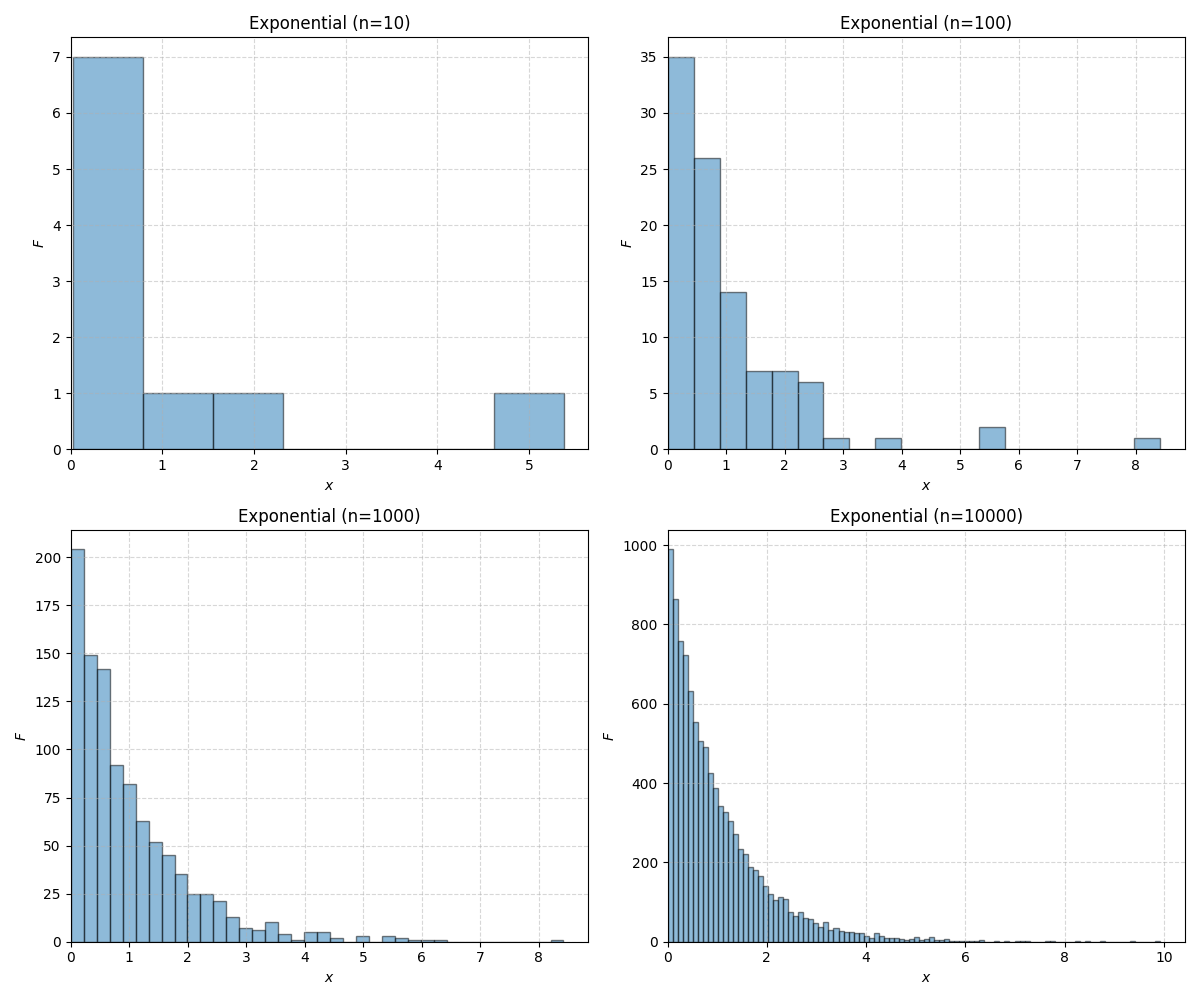
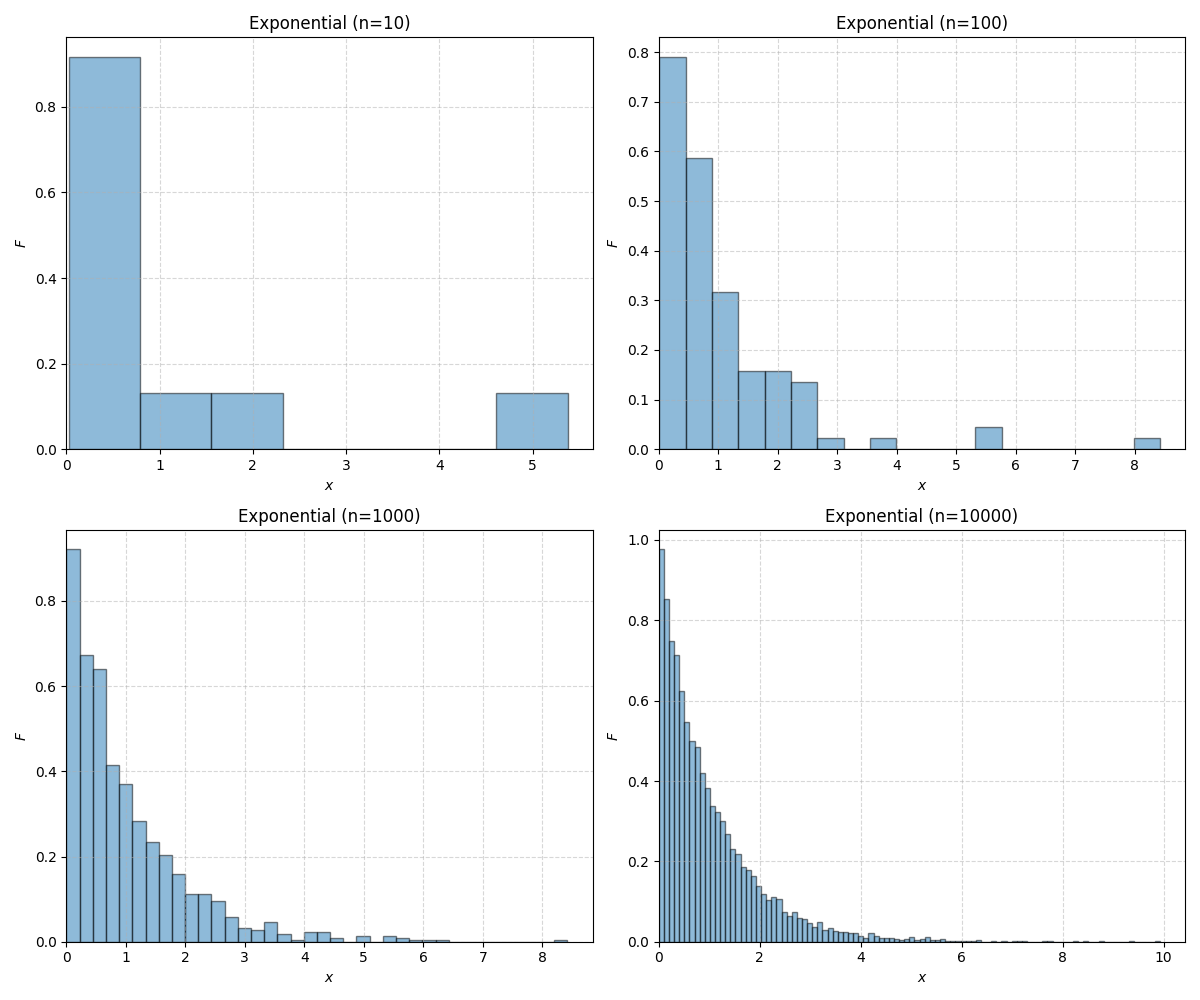
Add density=True for normal and exponential histogram normalization, update picture accordingly, add a print for some random number

diff --git a/TP01/tp_01.py b/TP01/tp_01.py
@@ -60,6 +60,7 @@ def uniform_discrete():
         theoretical = (MIN + MAX) / 2
         real = np.mean(x)
         error = real - theoretical
+        print(f"n: {n:6}, 5 premières valeurs: {x[:5]}") # Affichage des 5 premières valeurs
         print(f"n: {n:6}, Moyenne théorique: {theoretical:.4f}, Moyenne réelle: {real:.4f}, Erreur: {error:.4f}")
     plt.tight_layout()
     plt.savefig("uniform_discrete.png")
@@ -76,6 +77,7 @@ def uniform_real():
         theoretical = (0.0 + 1.0) / 2
         real = np.mean(x)
         error = real - theoretical
+        print(f"n: {n:6}, 5 premières valeurs: {x[:5]}") # Affichage des 5 premières valeurs
         print(f"n: {n:6}, Moyenne théorique: {theoretical:.4f}, Moyenne réelle: {real:.4f}, Erreur: {error:.4f}")
     plt.tight_layout()
     plt.savefig("uniform_real.png")
@@ -89,10 +91,11 @@ def exponential():
         # More AVG is high, more the distibution decrease quickly
         rng = np.random.default_rng(seed=SEED)
         x = rng.exponential(scale=(1 / AVG), size=n)
-        draw_on_axe(axes[i], x, n, "Exponential")
+        draw_on_axe(axes[i], x, n, "Exponential", density=True)
         theoretical = 1 # Because Moyenne théorique : 1/λ and λ = 1 for our group
         real = np.mean(x)
         error = real - theoretical
+        print(f"n: {n:6}, 5 premières valeurs: {x[:5]}") # Affichage des 5 premières valeurs
         print(f"n: {n:6}, Moyenne théorique: {theoretical:.4f}, Moyenne réelle: {real:.4f}, Erreur: {error:.4f}")
     plt.tight_layout()
     plt.savefig("exponential.png")
@@ -106,10 +109,11 @@ def normal():
         SIGMA_VAR = 1
         rng = np.random.default_rng(seed=SEED)
         x = rng.normal(loc=MU_AVG, scale=SIGMA_VAR, size=n)
-        draw_on_axe(axes[i], x, n, "Normal", start_at_zero=False)
+        draw_on_axe(axes[i], x, n, "Normal", start_at_zero=False, density=True)
         theoretical = 0 # Because MU_AVG = 0
         real = np.mean(x)
         error = real - theoretical
+        print(f"n: {n:6}, 5 premières valeurs: {x[:5]}") # Affichage des 5 premières valeurs
         print(f"n: {n:6}, Moyenne théorique: {theoretical:.4f}, Moyenne réelle: {real:.4f}, Erreur: {error:.4f}")
     plt.tight_layout()
     plt.savefig("normal.png")
@@ -135,6 +139,7 @@ def binomial():
         theoretical = TRIES * P
         real = np.mean(x)
         error = real - theoretical
+        print(f"n: {n:6}, 5 premières valeurs: {x[:5]}") # Affichage des 5 premières valeurs
         print(f"n: {n:6}, Moyenne théorique: {theoretical:.4f}, Moyenne réelle: {real:.4f}, Erreur: {error:.4f}")
     plt.tight_layout()
     plt.savefig("binomial.png")
